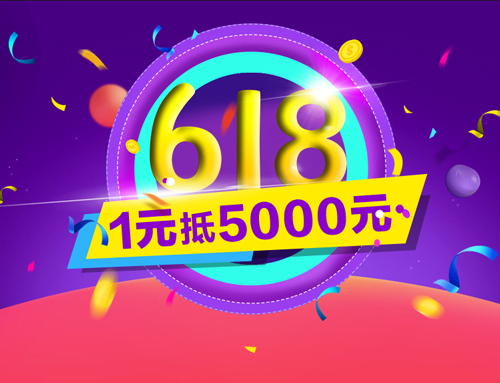
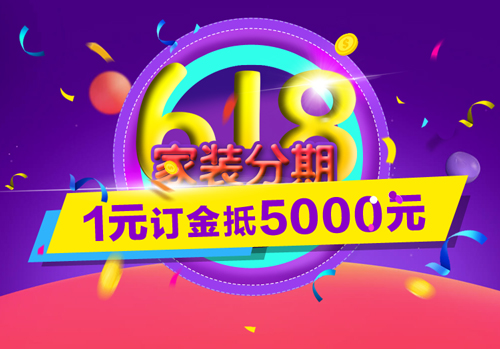
修改618活动样式 pc 手机 及 活动栏

diff --git a/res/css/common.css b/res/css/common.css
@@ -1832,7 +1832,7 @@ dl.sub-left-sec-nav dd.M_hidden.M_show{display:block;}
 .c_childrenDay_ico{z-index:11;position:fixed;bottom:0;right:0;left:0;height:150px;}
 .c_childrenDay_ico .bg{position:fixed;bottom:0;right:0;left:0;height:150px;filter:alpha(opacity=50);-moz-opacity:0.5;-khtml-opacity:0.5;opacity: 0.5;background-color:#5c49b7;}
 .c_childrenDay_ico .content{position:relative;width:1295px;margin-left:5%;}
-.c_childrenDay_ico .img{position:absolute;top:-124px;left:0;display:inline-block;width:397px;height:263px;background:url('../images/carnival/c_ico_img.png') no-repeat center top;background-size:contain;}
+.c_childrenDay_ico .img{position:absolute;top:-68px;left:0;display:inline-block;width:341px;height:215px;background:url('../images/carnival/c_ico_img.png') no-repeat center top;background-size:contain;}
 .c_childrenDay_ico .ul{display:inline-block;overflow:hidden;margin-top:30px;margin-left:360px;}
 .c_childrenDay_ico .ul li{font-size:18px;color:#fff;float:left;text-align:right;display:inline-block;}
 .c_childrenDay_ico .common_input{margin-left:10px;margin-right:53px;padding-left:3px;width:197px;height:40px;line-height:40px;background-color:#fff;color:#000;}

diff --git a/webapp/activity/common/carnival.css b/webapp/activity/common/carnival.css
@@ -37,7 +37,7 @@ select{appearance:none;-webkit-appearance: none;}
 .select_common{background:none;background:url('img/down.png') no-repeat 97% center;background-size:auto 40%;}
 
 /*  */
-.carnival.div1{position:relative;background-color:#f53e57;}
+.carnival.div1{position:relative;background-color:#f44265;}
 .carnival.div1 .img_header{width:100%;}
 .carnival.div1 .box1{text-align:center;}
 .carnival.div1 .box1 .img{width:100%;margin:0 auto;max-width:500px;}
